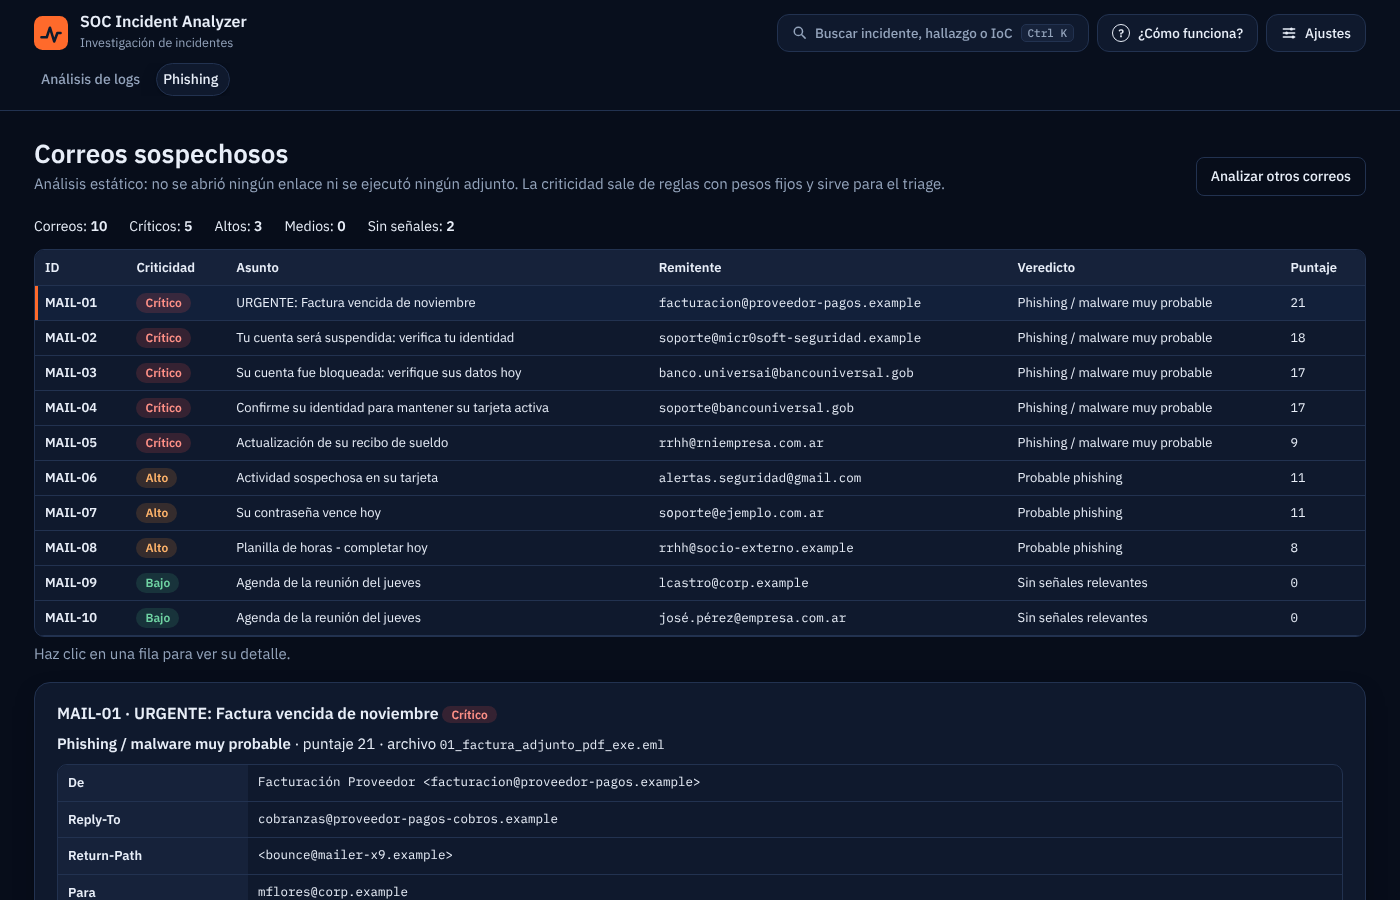
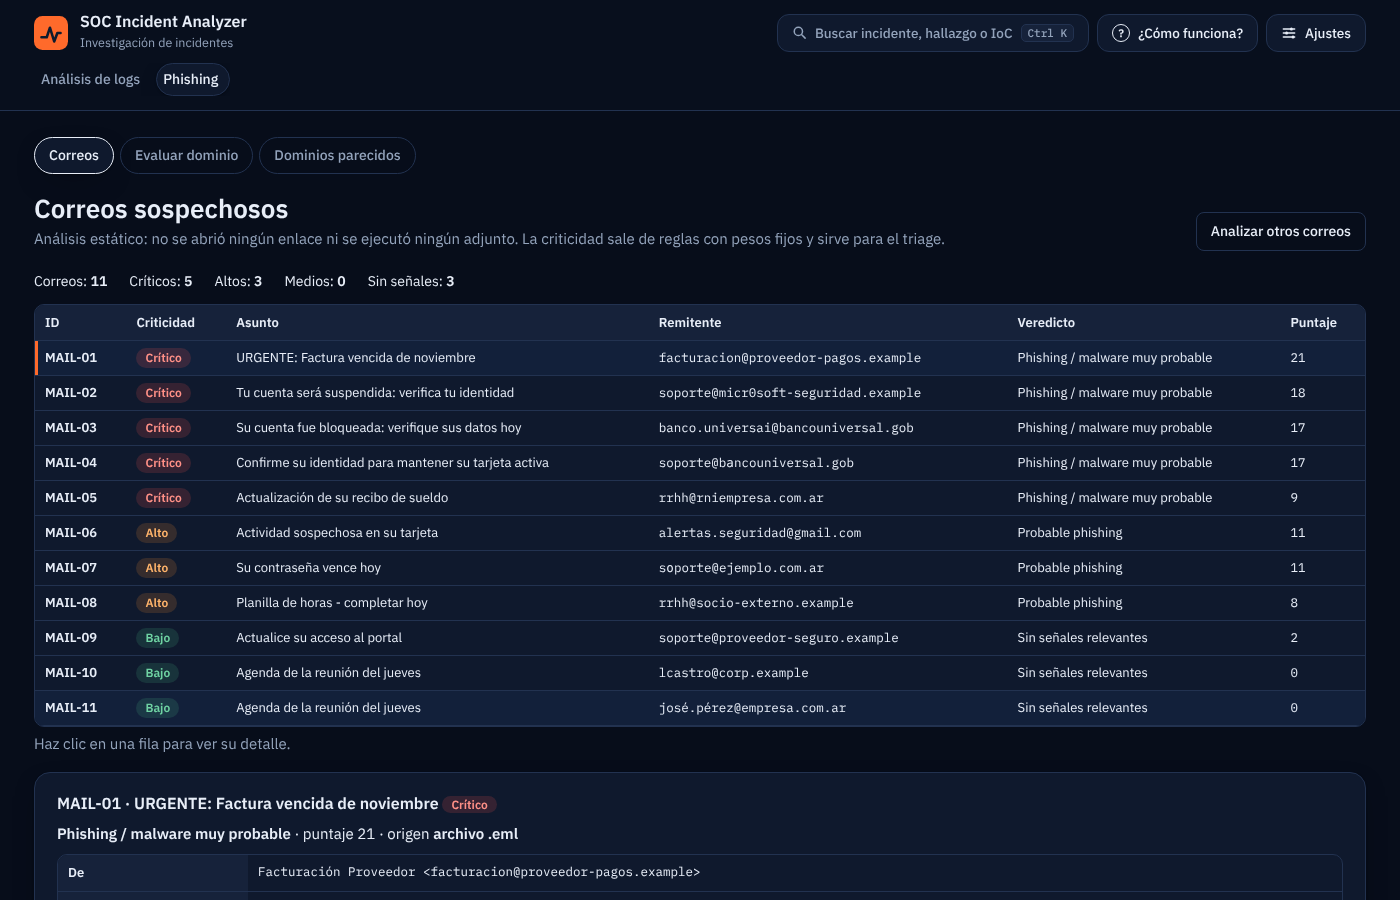
Add files via upload

diff --git a/backend/main.py b/backend/main.py
@@ -76,7 +76,7 @@ class SafeJSON(JSONResponse):
 
 
 _DOCS = os.environ.get("ENABLE_DOCS", "").strip().lower() in ("1", "true", "yes")      # API docs reveal the full surface: opt-in
-app = FastAPI(title="SOC Incident Analyzer", version="1.3.0", default_response_class=SafeJSON,
+app = FastAPI(title="SOC Incident Analyzer", version="1.4.0", default_response_class=SafeJSON,
               docs_url="/docs" if _DOCS else None, redoc_url="/redoc" if _DOCS else None, openapi_url="/openapi.json" if _DOCS else None)
 
 

diff --git a/README.md b/README.md
@@ -114,13 +114,25 @@ Las IP y los datos del ejemplo son sintéticos (rangos de documentación RFC 573
 
 ### Análisis de correos (phishing)
 
-**Phishing: carga de uno o varios `.eml`, con el campo opcional «Remitente esperado»**
+**Phishing: carga de uno o varios `.eml` o de cabeceras pegadas, con el campo opcional «Remitente esperado»**
 
-![Pantalla de carga de correos con el campo Remitente esperado](img/Phishing-inicio.png)
+![Pantalla de carga de correos con las pestañas de herramientas, las cabeceras pegadas y el campo Remitente esperado](img/Phishing-inicio.png)
 
 **Resultados: los correos de ejemplo ordenados por criticidad, con veredicto y puntaje**
 
 ![Tabla de correos analizados con criticidad, remitente, veredicto y puntaje](img/Phishing-resultados.png)
+
+**Recorrido del correo: saltos `Received` del origen al destino, con hora UTC, retraso y avisos**
+
+![Tabla de saltos del correo con hora UTC, retraso entre servidores y un salto marcado con retraso largo](img/Phishing-recorrido.png)
+
+**Puntaje con factores visibles: qué sumó cada señal, los topes por categoría y los umbrales**
+
+![Desglose del puntaje de un correo crítico por categoría y señal](img/Phishing-puntaje.png)
+
+**Dominios parecidos: variantes de typosquatting con descarga de la lista**
+
+![Lista de variantes de un dominio con el tipo de cambio y botones para descargar](img/Phishing-parecidos.png)
 
 **Homógrafos: desglose carácter por carácter de un remitente con una «о» cirílica (U+043E) que parece latina**
 

diff --git a/CHANGELOG.md b/CHANGELOG.md
@@ -4,7 +4,10 @@ Formato basado en [Keep a Changelog](https://keepachangelog.com/es-ES/1.1.0/) y 
 
 ## [Sin publicar]
 
+## [1.4.0] - 2026-11-05
+
 ### Añadido
+- README: capturas nuevas del recorrido, el puntaje explicado y los dominios parecidos; se actualizaron las de la carga, los resultados y la ayuda de phishing.
 - **Cabeceras pegadas** como alternativa al `.eml`: se pega el origen del mensaje (se quita el resumen que antepone Gmail) y se analizan remitente, autenticación y recorrido; sin cuerpo no se evalúan enlaces ni adjuntos, y se avisa.
 - **Recorrido del correo** (`Received`): línea de tiempo del origen al destino con hora UTC, TLS y retraso entre saltos; señales de bajo peso por horas fuera de orden, retrasos largos, fecha que no coincide y recorridos inusualmente largos. Nuevo ejemplo `sample_data/correos/11_recorrido_anomalo.eml`.
 - **Puntaje con factores visibles**: desglose por categoría, tope y señal, con los umbrales de criticidad, en la interfaz y en el PDF.
